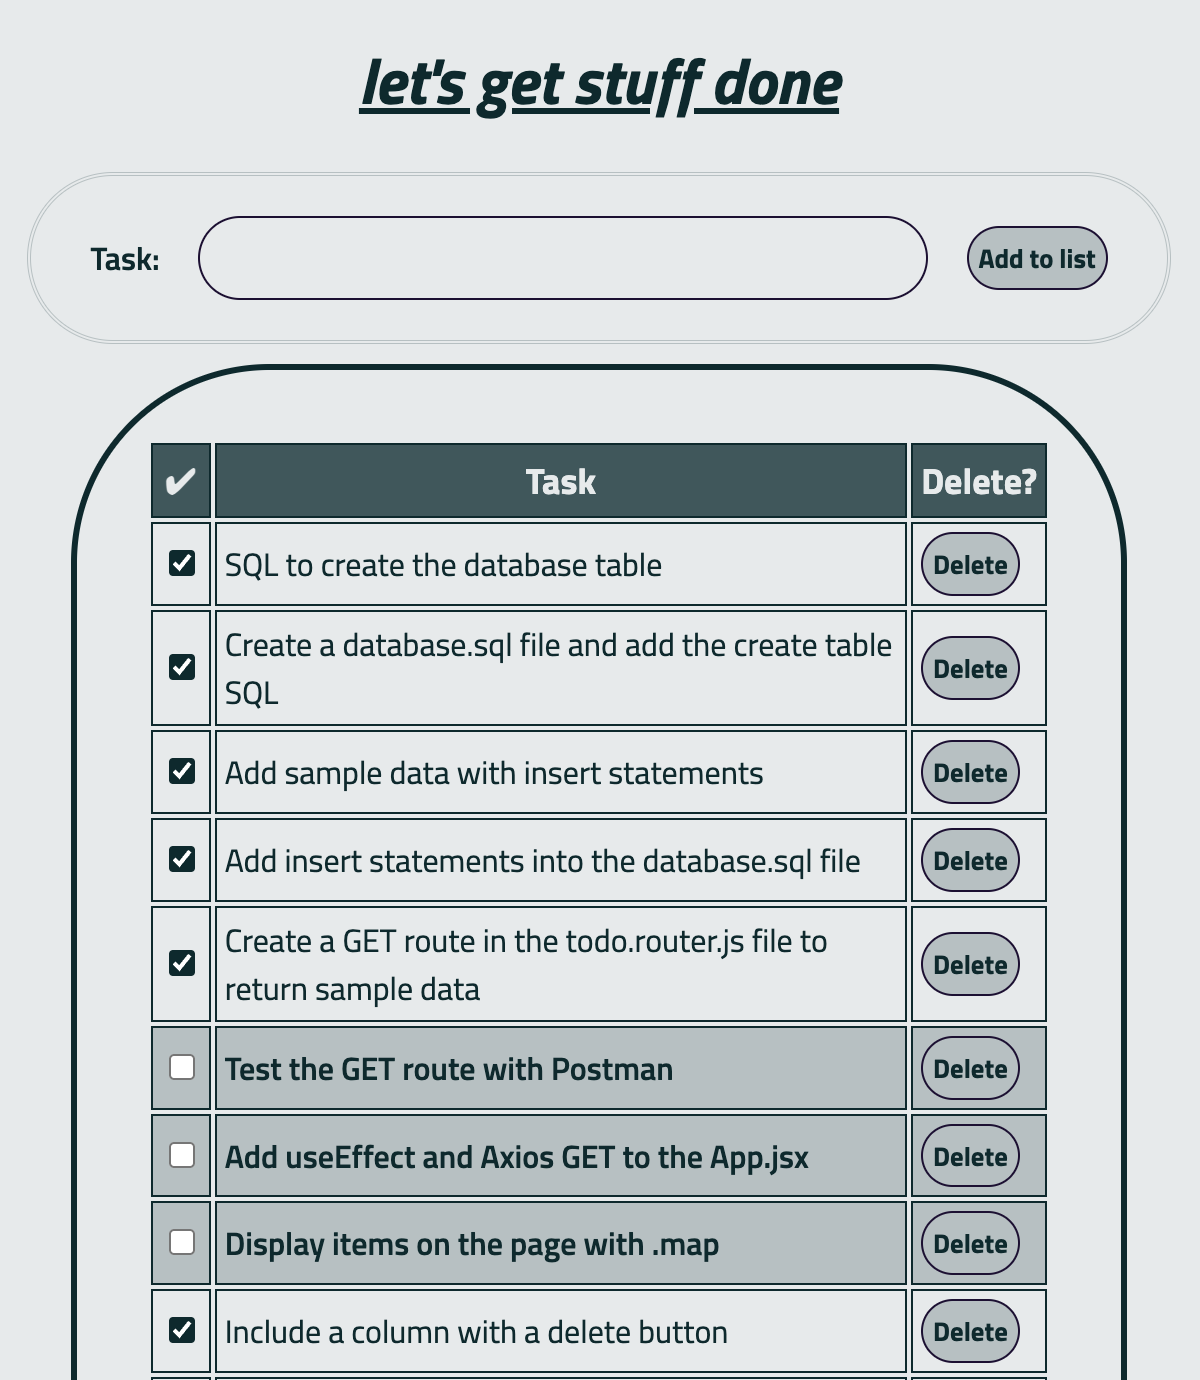
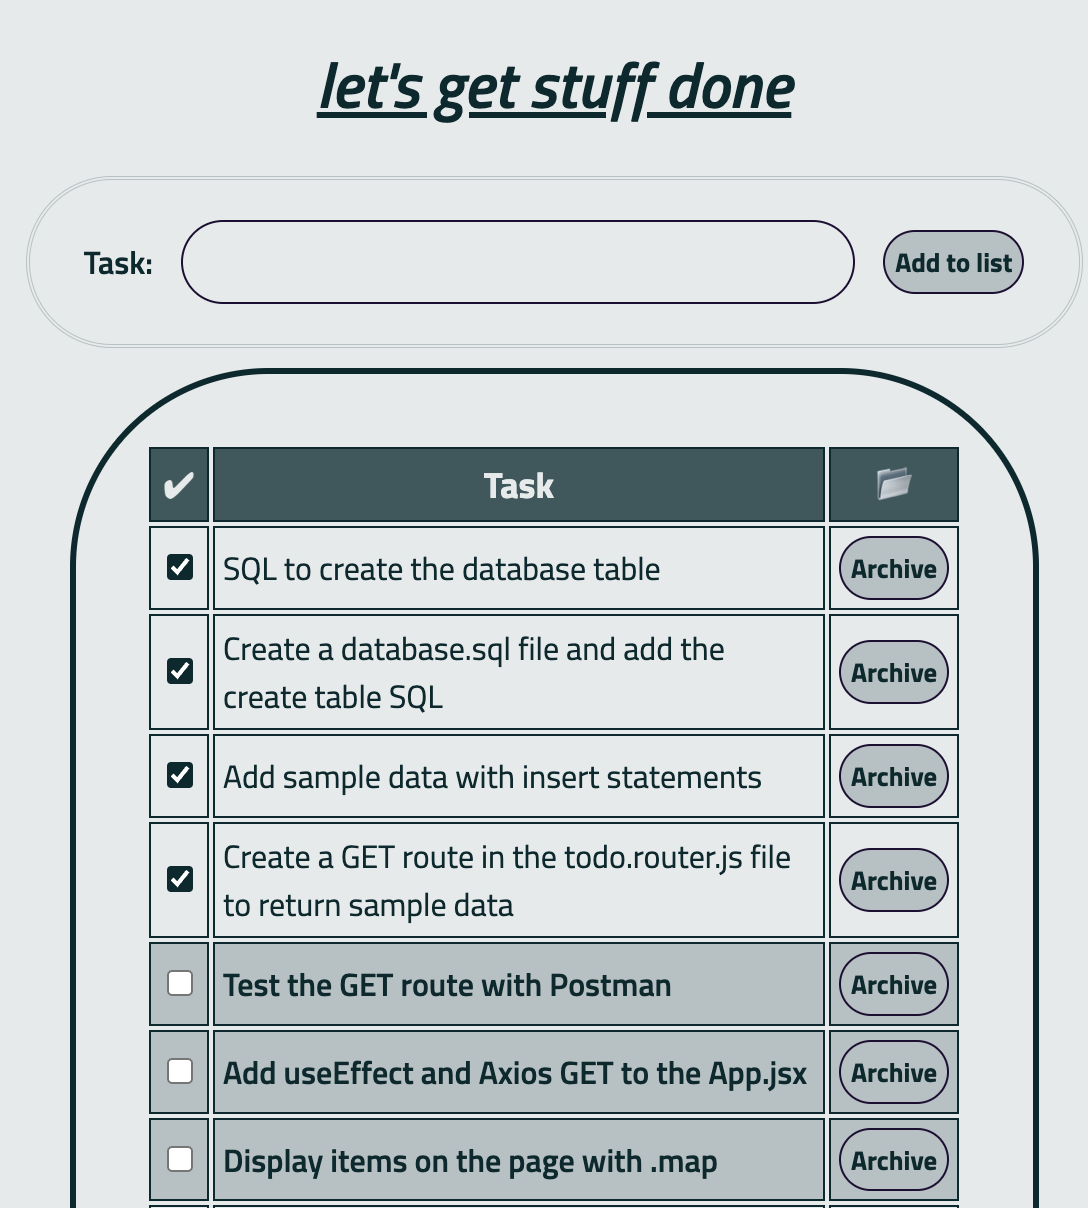
Updating README to reflect new functionality

diff --git a/README.md b/README.md
@@ -10,9 +10,11 @@ This is an application that allows the user to create a to do list.  Users can:
  * Add tasks to the list
  * Check off tasks they have completed
  * Uncheck tasks if they discover they're incomplete
- * Delete tasks from the list
+ * Archive tasks on their to do list
+ * View archived tasks on a list of completed and archived tasks
+ * Delete tasks from the archive
 
-The app stores all tasks and their status on a database.  Documentation provides sample content for the database (which is also the checklist for building the app).  The app uses both a checkbox and styling to indicate which tasks are complete and which are incomplete.
+The app stores all tasks and their status on a database until they are deleted.  Documentation provides sample content for the database (which is also the checklist for building the app).  The app uses both a checkbox and styling to indicate which tasks are complete and which are incomplete.
 
 This app is not currently deployed.  It was built in response to this assignment: [Assignment Instructions](./INSTRUCTIONS.md).
 
@@ -26,6 +28,10 @@ When entering a new task:
 <br />
 <center><image src=public/images/task-input.png width=80%></center>
 <br />
+List of completed/archived tasks:
+<br />
+<center><image src=public/images/done-list.png width=80%></center>
+<br />
 
 ## Prerequisites
 
@@ -38,10 +44,11 @@ The application has been tested and run on a local machine using the browser. It
 
 1. Clone down a version of this repository
 2. Create a database named `weekend-to-do-app`
-3. Create and populate a table called `tasks`  
+3. Create and populate a table called `tasks` and a table called `finished`  
     - This project is built on [Postgres](https://www.postgresql.org/download/), which you will need to install to use the app
-    - The `database.sql` file contained in this repository provides all of the necessary queries for creating the table needed to run the app
-    - The queries will also populate the table with sample data
+    - The `database.sql` file contained in this repository provides all of the necessary queries for creating the tables needed to run the app
+    - The queries will also populate the `tasks` table with sample data
+    - The `finished` table will be populated when the app is used, so no sample data is needed or provided
 4. Open in your editor of choice and run an `npm install`
 5. Run `npm run server` in your terminal
 6. Run `npm run client` in your terminal
@@ -52,14 +59,16 @@ I'm a developer creating an app.  I'd like to make a to do list that tracks all 
 
 I want to be able to check tasks off when I complete them and have that completion status stored.  Sometimes I discover a bug after I've checked off a task, so I need to be able to uncheck the task so that my list of tasks accurately shows the features that are still in progress and the steps I plan to take to build (and debug) them.
 
-I also want to be able to add tasks to the list, in case I forgot to populate them into the database at the start, and remove tasks if I find that I have duplicates or if I no longer want to build out the associated feature.
+I also want to be able to add tasks to the list, in case I forgot to populate them into the database at the start.  I like being able to see what I've accomplished, so I want an archive feature that shows me everything I've marked fully complete.  And, if I need to, I can delete tasks that I added in error or that are for a function I'm no longer planning to build.
 
 1. Follow the installation instructions above
 2. Enter each task into the input field at the top of the page
 3. Select `Add to list` to add the new task to the end of the to do list
 4. When each task is completed, check it off using the checkbox in that task's row
 5. If part of the feature needs debugging, uncheck the task using the checkbox
-6. If a task needs to be removed, click on the `Delete` button in that task's row
+6. If a task is complete and doesn't need debugging, select the `Archive` button in that task's row
+7. Track everything that's been accomplished in the archive list
+8. If a task needs to be fully deleted, add it to the archive by selecting `Archive` in the task's row and then select `Delete` from its row once it's been moved to the archive
 
 ## Technologies
 
